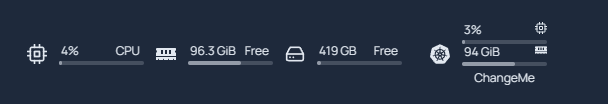
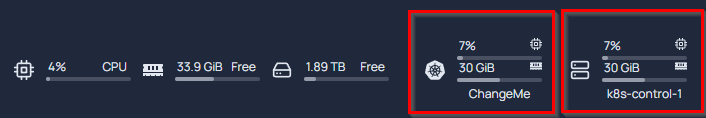
docs(homepage): helmify docs

diff --git a/charts/stable/homepage/docs/hp-integration.md b/charts/stable/homepage/docs/hp-integration.md
@@ -4,27 +4,20 @@ title: Homepage TrueCharts Integration Guide
 
 TrueCharts has adopted `Homepage` as its default dashboard application due to its support for Kubernetes.
 
-This guide will cover how to use the TrueCharts/Homepage integration included in the chart and how to edit the YAML files in Homepage using the code-server addon. This guide will not cover every aspect of options available to Homepage. For more information, please visit the following links:
+This guide will cover how to use the TrueCharts/Homepage integration included in the charts. 
+Editing the configuration .yaml files of homepage can be done if you add the codeserver addon to your deployment.
+This guide will not cover every aspect of options available to Homepage. For more information, please visit the following links:
 
-GitHub: <https://github.com/gethomepage/homepage>
+GitHub: <https://github.com/gethomepage/homepage> <br>
 Website: <https://gethomepage.dev/>
 
 :::caution[INGRESS REQUIRED]
 For Homepage to "discover" your apps, Ingress is required using our ingress configuration guidelines and the integration options for the chart configuration. Otherwise, all Kubernetes features can be used with manual configuration of Homepage via its configuration YAML files.
 :::
 
-## Getting Started
+## Cluster/Node/Charts resources
 
-<details>
-<summary> ⚠ Advanced Section regarding metrics server for Scale users ⚠ </summary>
-
-If you wish to make use of the metrics components of Homepage, you can enable the metrics server in Cobia. Currently, there is no GUI option for this, but it should be available in a future release. As such, this falls under advanced usage. It's advised to make a backup before running the following command. This command will force all your apps to restart, so be aware.
-
-`midclt call -job kubernetes.update '{"metrics_server": true}'`
-
-You can then run `k3s kubectl top pods -A` once all apps have resumed to confirm the metrics server is running properly.
-
-You can then add the following to your widgets.yaml file to add the cluster/node resources display:
+To add the cluster/node resources display, add the following to your `/app/config/widgets.yaml` file:
 
 ```yaml
 - kubernetes:
@@ -50,51 +43,58 @@ You can then add the following to your widgets.yaml file to add the cluster/node
 ```
 
 This will result in the following being added:
+
 ![hp kube enable check](./img/cwidget.png)
 
-And you will be able to have outputs similar to this to see memory and CPU:
+Metrics are standard enabled per widget and can be shown in the widgets by clicking on top right corner. When prefered this can be changed in `/app/config/widgets.yaml`:
 
 ![metrics example](./img/metricsexample.png)
 
 :exclamation: Due to how Homepage calculates utilization for your applications, this is only an approximation. The percentage is not based on your physical CPU utilization but on the max CPU limit for the chart and is additive for each pod. If your chart has a 2000m CPU limit and has 1 pod, 1000m of usage will read as 50%. If the chart has 2 pods each with a 2000m limit, it will read as 25% for 1000m of usage as the pods total 4000m. RAM utilization is the total combined RAM usage across all pods.
 
-</details>
-<br>
-
 ## Enabling Integration in Charts
 
-To edit an existing chart with ingress, go to the ingress section and enable the Homepage integration checkbox.
+To enable the integration for a chart you need to add the homepage addon to the ingress section.
+Detailed configuration details: https://truecharts.org/common/ingress/homepage/
 
-- **Name** can be left blank or use the name of your choice.
-- **Description** can be left blank or you can use the description of your choice.
-- **Icon** can be left blank or link to the icon of your choice.
-- **Group** This is important and required. It will allow you to group different apps together. For example, all your media apps may be in a group called "Media". You can also use the group names you may have already defined in services.yaml, and it will add the discovered app to that group.
-- **Enable Widget**: If the app does not have a widget option set, leave this unchecked.
-- **API Key**: This is where you will enter an API key for your application if needed. If this is a new install and you do not have an API key yet, you can come back and add this later.
+- **name** can be left blank to use the charts deployment name or use the name of your choice.
+- **description** can be left blank for using the chart description of TrueCharts or you can use the description of your choice.
+- **icon** can be left blank for using the chart icon or link to the icon of your choice.
+- **group** This is important and required. It will allow you to group different apps together. For example, all your media apps may be in a group called "Media". You can also use the group names you may have already defined in `/app/config/services.yaml`, and it will add the discovered app to that group.
+- **weight** can be left blank or set a number to define an order per category.
+- **widget.enabled**: If the app does not have a widget option set, set this to `false`.
+- **widget.custom.key**: This is where you will enter an API key for your application if needed. If this is a new install and you do not have an API key yet, you can come back and add this later.
 - **Custom-Options** Adding custom options will allow you to add fields to the widget, or define username/password when there is no API key to apply. You can see the various fields available in the widgets section of the Homepage documentation at their site above.
 
-![integration options](./img/intop.png)
+Example:
+
+```yaml
+ingress:
+  main:
+    integrations:
+      homepage:
+        enabled: true
+        group: "Arr"          
+        weight: 1
+        widget:
+          custom:
+            key: "${HP_API_SONARR}"
+```
 
 Which results in the following in Homepage:
 
-![example one](./img/exmaple1.png)
+![example one](./img/example.png)
 
 As you can see, the application is running and the fields have populated.
 
-You may also notice in the above screenshot that Homepage has a message "Missing Widget Type: homepage". At this time, you will have to define applications without widgets manually in services.yaml.
-If you see this message on an application that has a widget per the Homepage documentation, please submit a GitHub bug request to us so that we may correct the type setting.
-
-If you have turned on the metrics server in the above section, you can click 'Running' to see the application's approximate utilization.
-
-![utilization example](./img/utilexam.png)
-
-You can also use settings.yaml to change the group layout from a single column to rows (with up to 5 columns per row) and other settings.
+## Other settings
+You can modify `/app/config/settings.yaml` to change the group layout from a single column to rows (with up to 5 columns per row), weather details and much more other settings.
 
 ## Known Issues and Limitations
 
 - When using the integration to detect your apps, applications may change places within the group on each restart of Homepage as it populates in the order it detects the application.
 - Some applications may have an incorrect widget type. Please open a bug report on our [GitHub](https://github.com/truecharts/charts/issues).
 - When using the integration, you will not be able to control settings on a per-app basis as far as auto showing/hiding stats, changing the status indicator, or adding a ping with ms response time readout.
-- External Services are not supported at this time despite the options being present.
+- External Services are not supported at this time.
 - If you define a group in services.yaml, it must contain at least one manual entry. Otherwise, it will interfere with widget API calls and cause an API JSON error.
 - Custom-App will report Pod Status and stats but has no widget support at this time.
